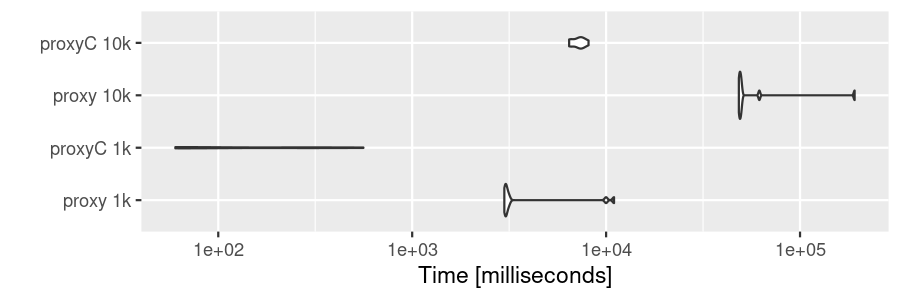
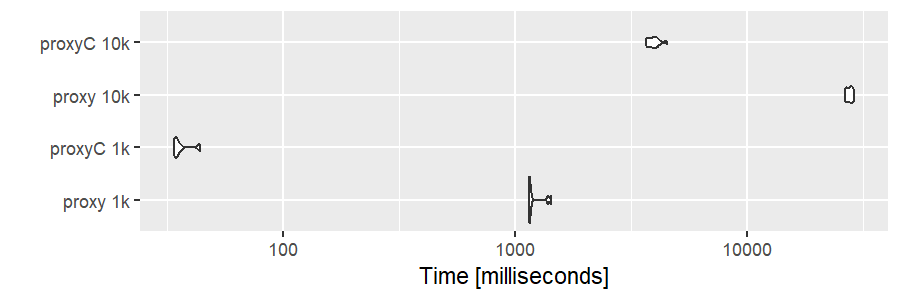
Update README

diff --git a/README.md b/README.md
@@ -25,24 +25,37 @@ similarity/distance between documents or features in large corpora, but
 separated as a stand-alone package to make it available for broader data
 scientific purposes.
 
+## Install
+
+Since **proxyC** v0.4.0, it requires the Intel oneAPI Threading Building
+Blocks for parallel computing. Windows and Mac users can download binary
+packages from CRAN, but Linux users must install the library manually
+before installing using the commands below:
+
+    # Fedora, CentOS, RHEL
+    sudo yum install tbb-devel
+
+    # Debian and Ubuntu
+    sudo apt install libtbb-dev
+
 ``` r
 install.packages("proxyC")
 ```
+
+## Performance
 
 ``` r
 require(Matrix)
 ## Loading required package: Matrix
 require(microbenchmark)
 ## Loading required package: microbenchmark
-require(RcppParallel)
-## Loading required package: RcppParallel
 require(ggplot2)
 ## Loading required package: ggplot2
 require(magrittr)
 ## Loading required package: magrittr
 
 # Set number of threads
-setThreadOptions(8)
+options("proxyC.threads" = 8)
 
 # Make a matrix with 99% zeros
 sm1k <- rsparsematrix(1000, 1000, 0.01) # 1,000 columns
@@ -67,7 +80,6 @@ bm1 <- microbenchmark(
     times = 10
 )
 autoplot(bm1)
-## Coordinate system already present. Adding new coordinate system, which will replace the existing one.
 ```
 
 ![](man/images/unnamed-chunk-4-1.png)<!-- -->
@@ -84,7 +96,6 @@ bm2 <- microbenchmark(
     times = 10
 )
 autoplot(bm2)
-## Coordinate system already present. Adding new coordinate system, which will replace the existing one.
 ```
 
 ![](man/images/unnamed-chunk-5-1.png)<!-- -->
@@ -113,7 +124,6 @@ bm3 <- microbenchmark(
     times = 10
 )
 autoplot(bm3)
-## Coordinate system already present. Adding new coordinate system, which will replace the existing one.
 ```
 
 ![](man/images/unnamed-chunk-7-1.png)<!-- -->
